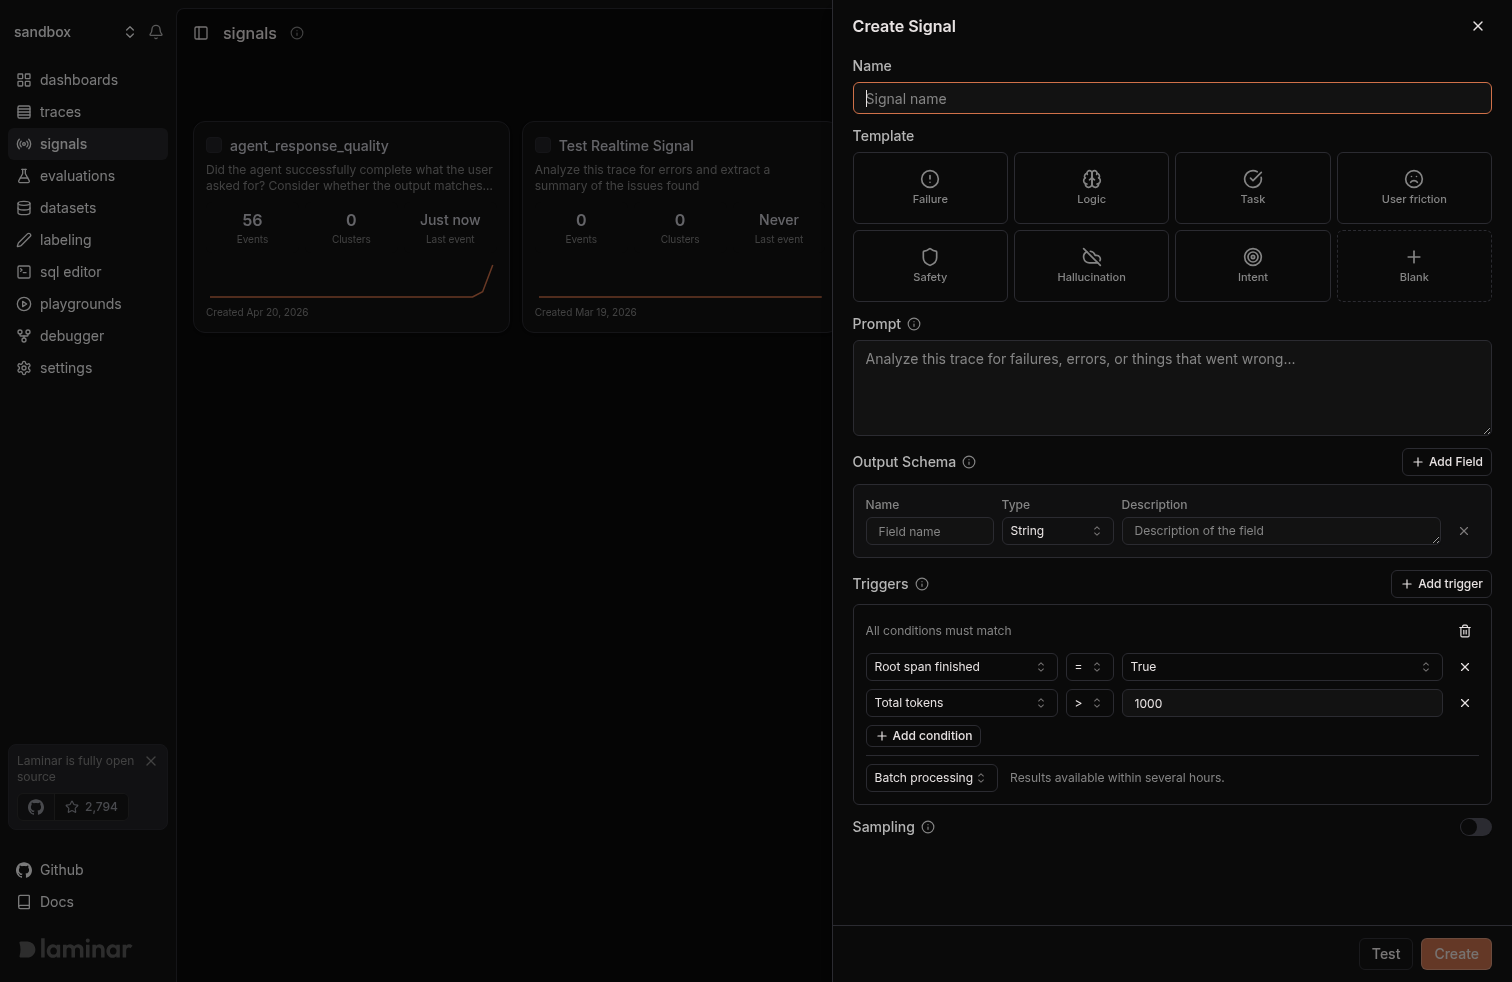
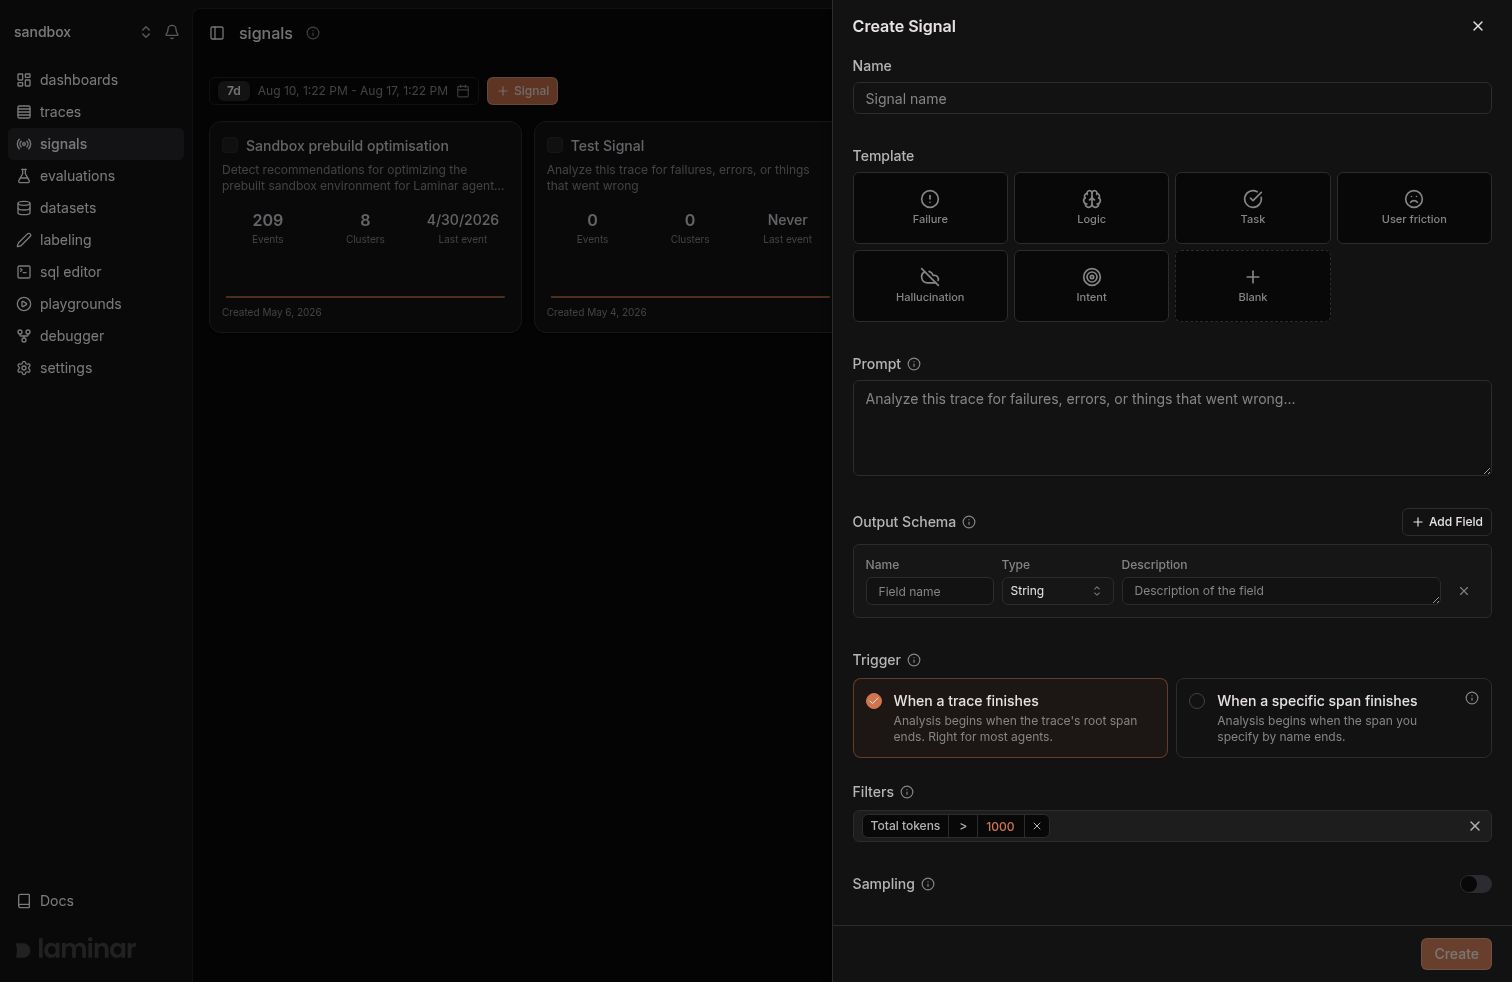
docs(signals): reshoot Signals screenshots for the drawer and filters UI
The Quickstart shots still showed the old full-page create form and the
"Triggers" condition list, so the images contradicted the wording that
already landed on this branch. Reshot the list, create drawer, Settings >
General, and the pause/resume pair against the current UI, and renamed the
trigger options to the labels the UI actually renders.

LAM-2129

diff --git a/CLAUDE.md b/CLAUDE.md
@@ -99,7 +99,9 @@ This is a Mintlify site. Pages are `.mdx`, navigation lives in `docs.json`, reus
 - Close the "Chat with trace" and Signals side panels before capturing so the trace plus transcript are the dominant content. Dismiss any "New: …" Mintlify-style feature popups too.
 - For the **Reports** page: workspaces that predate the default-reports logic (created before LAM-1474) will have an empty reports table in staging. Seed two rows into `reports` (`type=SIGNAL_EVENTS_SUMMARY`, `weekdays={0,1,2,3,4}`/`{6}`, `hour=10`) + matching `report_targets` so the screenshot shows "Weekday/Weekly signals summary" rows instead of the empty state.
 - For the **project Alerts** page: insert a `NEW_CLUSTER` alert alongside the existing `SIGNAL_EVENT` alerts in staging to visibly exercise the Trigger + Severity columns (severity is blank/"—" for `NEW_CLUSTER` rows, which is the expected rendering).
-- For **Signals** screenshots in the OSS `/repos/lmnr` stack: the Signals UI is gated behind `Feature.SIGNALS` (`frontend/lib/features/features.ts`), which needs `SIGNALS_ENABLED=true` AND a configured AI provider (`LLM_PROVIDER` + `LLM_API_KEY`), and clusters need `CLUSTERING_ENABLED=true`. These are runtime server-env reads, so start the prod frontend with all four set (no rebuild needed) and `/signals` stops redirecting to `/traces`. The Signals settings PRs (#1934 four-section sidebar + alert output-schema filters + backfill; #1903 clusters refresh) are merged into the lmnr `dev` branch, so the new UI renders from OSS once the flags are on. lmnr-private is NOT required (and is absent from this sandbox). Signal detail page has only TWO top-level tabs (Events, Settings — Settings hidden on free tier); the clusters view renders INSIDE the Events tab below the events table, not as its own tab. Settings sections are URL-addressable: `?tab=settings&section=settings|alerts|backfill|activity`. The Backfill and Activity tables each have their own time-range picker that defaults to 1d — widen to 3 months to populate them (project `0cce3ee3-…` signal `cf58f99f-…` has ~226 runs / 209 events / 8 clusters around 2026-04-20..30). Output-schema-filter UI only renders fields when the signal's `structured_output_schema` has named properties; signal `c0685fef-…` ("Test Signal", `summary`/`isFailure`) is a good one for that shot.
+- For **Signals** screenshots in the OSS `/repos/lmnr` stack: the Signals UI is gated behind `Feature.SIGNALS` (`frontend/lib/features/features.ts`), which needs `SIGNALS_ENABLED=true` AND a configured AI provider (`LLM_PROVIDER` + `LLM_API_KEY`), and clusters need `CLUSTERING_ENABLED=true`. These are runtime server-env reads, so start the prod frontend with all four set (no rebuild needed) and `/signals` stops redirecting to `/traces`. The Signals settings PRs (#1934 four-section sidebar + alert output-schema filters + backfill; #1903 clusters refresh) are merged into the lmnr `dev` branch, so the new UI renders from OSS once the flags are on. lmnr-private is NOT required for the UI to render (it is present in this sandbox now, and its frontend carries the newest Signals UI first). Signal detail page has only TWO top-level tabs (Events, Settings — Settings hidden on free tier); the clusters view renders INSIDE the Events tab below the events table, not as its own tab. Settings sections are URL-addressable: `?tab=settings&section=settings|alerts|backfill|activity`. The Backfill and Activity tables each have their own time-range picker that defaults to 1d — widen to 3 months to populate them (project `0cce3ee3-…` signal `cf58f99f-…` has ~226 runs / 209 events / 8 clusters around 2026-04-20..30). Output-schema-filter UI only renders fields when the signal's `structured_output_schema` has named properties; signal `c0685fef-…` ("Test Signal", `summary`/`isFailure`) is a good one for that shot.
+- **Signals create/edit UI after LAM-2126** (`components/signals/create-signal-drawer/`): creation happens in a right-side **drawer** opened by the `+ Signal` button (the button label is just "Signal" with a plus icon, there is no "Create signal" button), while an existing Signal is still edited on the full `?tab=settings&section=settings` page, which embeds the same form. `Trigger` is a two-card radio: **"When a trace finishes"** (default) and **"When a specific span finishes"** (reveals a span-name tag input). `Filters` is the traces-table search bar (`AdvancedSearch`, free text disabled, columns Total tokens / Status / Span names) and every new Signal starts with `total tokens > 1000`. Use the UI labels in docs, not the API kind names (`root-span-finished` / `span-name`) which only appear in the CLI. Two things that will NOT show up in a screenshot: the `Processing mode` select is behind `Feature.BATCH_SIGNALS`, which is hard-coded `false` in `lib/features/features.ts`, and the Active/Inactive card renders only when editing (the form checks for an `id`), so it is absent from the create drawer.
+- Signal **evaluation** does not run against the local lmnr-private stack: the `signals` cargo feature is not in app-server's default features, so a Signal created for a screenshot stays at 0 events. Shoot populated events/clusters/backfill views against pre-existing data (project `0cce3ee3-…`, signal `cf58f99f-…`) instead of waiting for new events.
 - For the **Sessions** section (`/tracing/structure/sessions`) after LAM-1438-2 / PR #1656: the old expandable-row drawer is gone. Clicking a row in the Sessions table at `/project/<id>/traces?view=sessions` (actual path is server-side; the tab is labeled `Sessions` next to `Traces`/`Spans`) navigates to `/project/<id>/sessions/<sessionId>`. The detail page has a `sessions / <sessionId>` breadcrumb, three stats shields (duration / tokens / cost), a `Timeline` toggle, a search box, and numbered trace cards (`1/5`, `2/5`, …) with an auto-extracted `Input` block plus the last LLM-span output. Docs must show BOTH the table view and the detail view. Seed at least two sessions with real OpenAI/Anthropic calls (not just raw `@observe`'d functions) so the Input/Output previews are populated — sessions without LLM spans render a thin card that does not demo the new UI.
 
 ## Trace view naming
